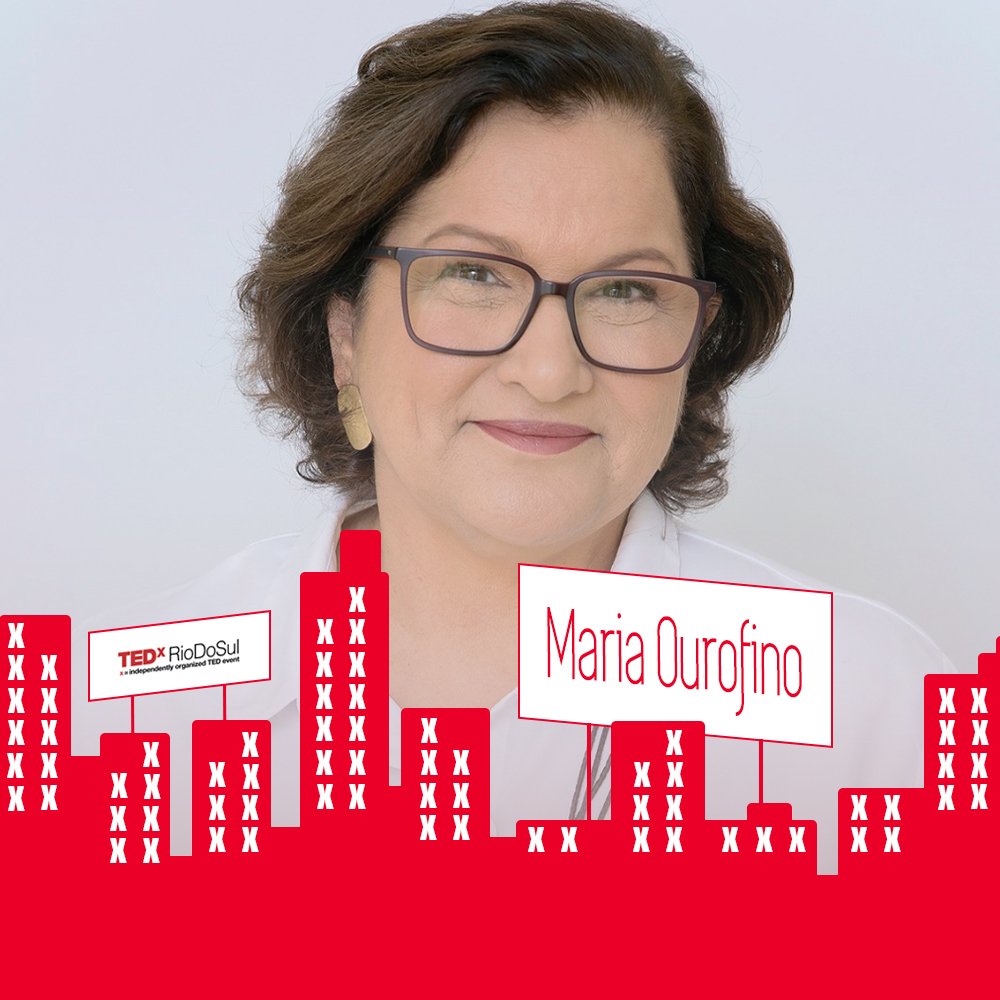
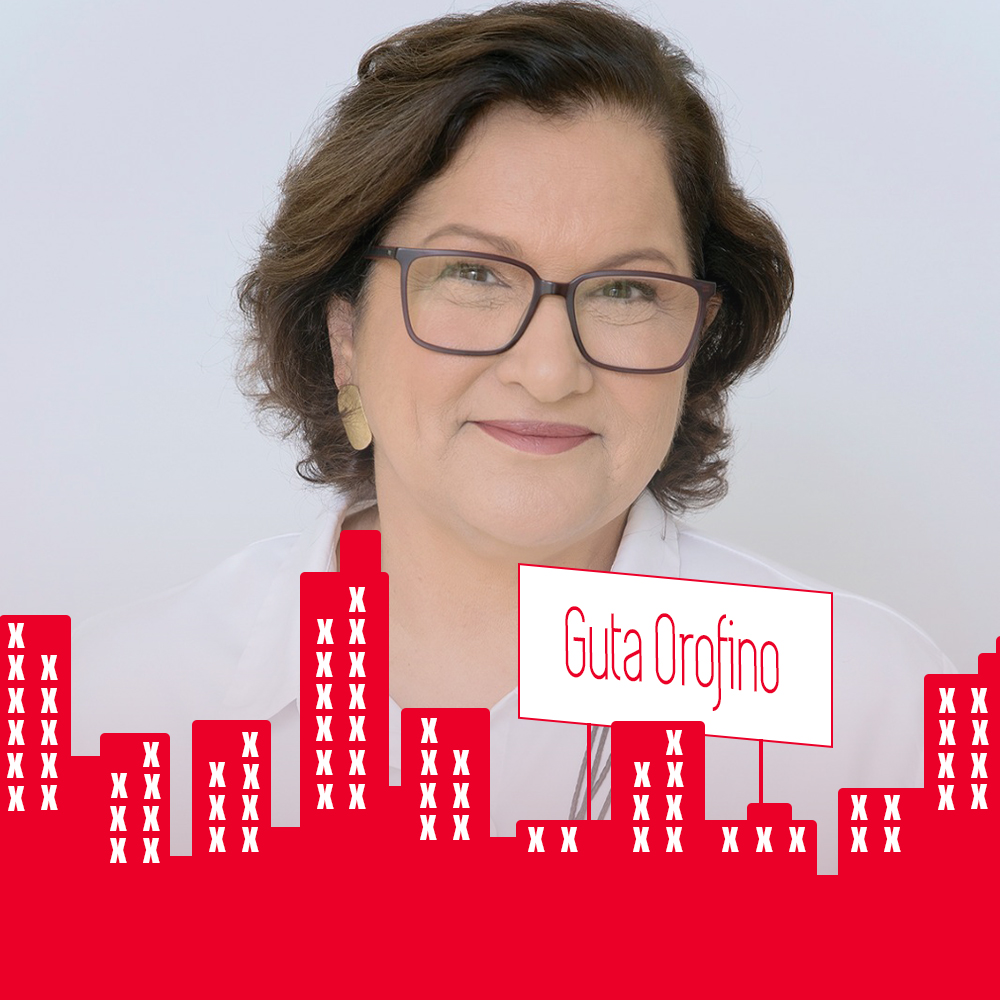
fix: change img Speaker Maria

Changed region(s): [[0.527, 0.589, 0.806, 0.713], [0.062, 0.589, 0.279, 0.713]]

diff --git a/index.html b/index.html
@@ -290,10 +290,10 @@
         <div class="col-md-3 col-sm-6">
             <div class="speaker_box more-info" title="">
                 <div class="speaker_img">
-                    <img src="assets/img/speakers/Maria.jpg" alt="Guta Ourofino">
+                    <img src="assets/img/speakers/Maria.jpg" alt="Guta Orofino">
                     <a href="https://www.instagram.com/mariaaugustaorofino/" target="_blank">
                         <div class="info_box">
-                            <h5 class="name"> # Guta Ourofino #</h5>
+                            <h5 class="name"> # Guta Orofino #</h5>
                             <p class="position"></p>
                         </div>
                     </a>
